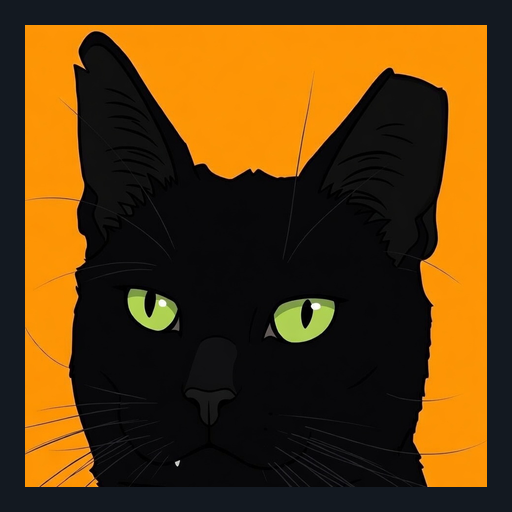
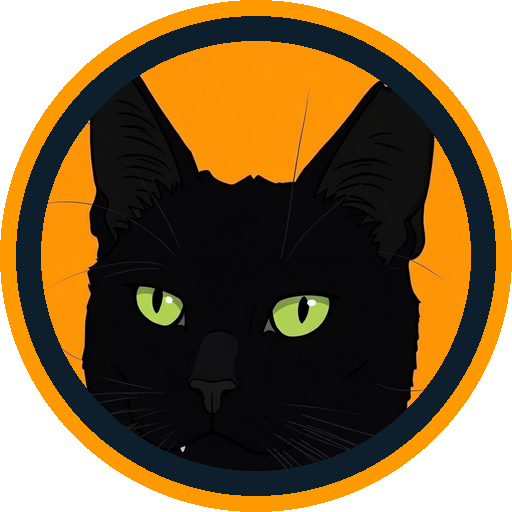
deploy: 2026-03-10T01:45:42Z

diff --git a/js/auth.js b/js/auth.js
@@ -124,13 +124,7 @@ export function renderAuth(container) {
       <div class="splash-screen">
         <div class="splash-card">
           <div class="splash-logo">
-            <svg width="64" height="64" viewBox="0 0 64 64" fill="none">
-              <rect x="8" y="16" width="48" height="36" rx="5" stroke="#FF9900" stroke-width="2.5" fill="none"/>
-              <circle cx="32" cy="34" r="12" stroke="#FF9900" stroke-width="2" fill="rgba(255,153,0,.08)"/>
-              <line x1="32" y1="22" x2="32" y2="46" stroke="#FF9900" stroke-width="1.5" stroke-dasharray="2 3"/>
-              <line x1="20" y1="34" x2="44" y2="34" stroke="#FF9900" stroke-width="1.5" stroke-dasharray="2 3"/>
-              <rect x="24" y="10" width="16" height="8" rx="3" stroke="#FF9900" stroke-width="2" fill="var(--panel)"/>
-            </svg>
+            <img src="icons/icon-192.png" alt="FubzLifts" style="width:96px;height:96px;border-radius:50%" />
           </div>
           <h1 class="splash-title">FubzLifts</h1>
           <p class="splash-sub">${isLogin

diff --git a/index.html b/index.html
@@ -17,7 +17,7 @@
   <!-- Header -->
   <header>
     <div class="row">
-      <div class="logo" id="headerLogo" style="cursor:pointer">FubzLifts</div>
+      <div class="logo" id="headerLogo" style="cursor:pointer;display:flex;align-items:center;gap:8px"><img src="icons/icon-192.png" alt="" style="width:28px;height:28px;border-radius:50%">FubzLifts</div>
       <div class="header-spacer"></div>
       <div id="headerRight" style="display:none;align-items:center;gap:8px">
         <span class="header-alias" id="headerAlias" style="cursor:pointer"></span>

diff --git a/js/version.js b/js/version.js
@@ -1,2 +1,2 @@
 // Auto-updated on deploy — do not edit manually
-export const BUILD_TIME = '2026-03-10T01:38:26Z';
+export const BUILD_TIME = '2026-03-10T01:45:42Z';
